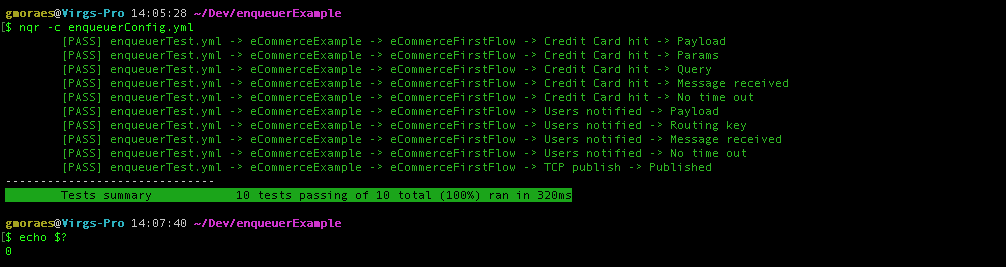
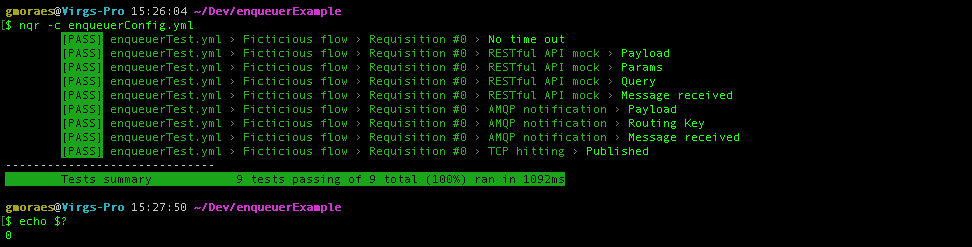
Updating readme

Changed region(s): [[0.0, 0.0283, 0.8025, 0.7652], [0.0, 0.8219, 0.3704, 0.9636]]

diff --git a/src/events/on-init-event-executor.ts b/src/events/on-init-event-executor.ts
@@ -13,11 +13,10 @@ export class OnInitEventExecutor extends EventExecutor {
     }
 
     public trigger(): TestModel[] {
-        Logger.trace(`Executing onInit`);
         if (!this.initializable.onInit) {
-            Logger.trace(`No onOnInit to be played here`);
             return [];
         }
+        Logger.trace(`Executing onInit`);
         return this.execute();
     }
 

diff --git a/README-PT_BR.md b/README-PT_BR.md
@@ -4,7 +4,7 @@
 
 ![enqueuerlogo](https://github.com/lopidio/enqueuer/blob/develop/docs/images/fullLogo1.png "Enqueuer Logo")
 
-Quando um _servidor_ _TCP_ do seu _e-commerce_ é atingido, é necessário enviar uma informação para uma _API RESTful_ de processamento de cartões de crédito e notificar os usuários interessados através de uma publicação *AMQP*.
+Quando um _servidor_ _TCP_ seu é atingido, é necessário enviar uma informação para uma _API RESTful_ e notificar o evento através de uma publicação *AMQP*.
 
 ![readme-flow](https://github.com/lopidio/enqueuer/blob/develop/docs/images/readme-flow.png "Fluxo do exemplo")
 

diff --git a/README.md b/README.md
@@ -5,7 +5,7 @@
 ![enqueuerlogo](https://github.com/lopidio/enqueuer/blob/develop/docs/images/fullLogo1.png "Enqueuer Logo")
 [Take a look if you prefer to read it in portuguese](/README-PT_BR.md);
 
-When your e-commerce TCP server is hit, you have to send an information to a credit card processing RESTful API and notify users about this through AMQP events.
+When a TCP server you own is hit, you have to send an information to a RESTful API and notify this using AMQP messages.
 
 ![readme-flow](https://github.com/lopidio/enqueuer/blob/develop/docs/images/readme-flow.png "Flow")
 
